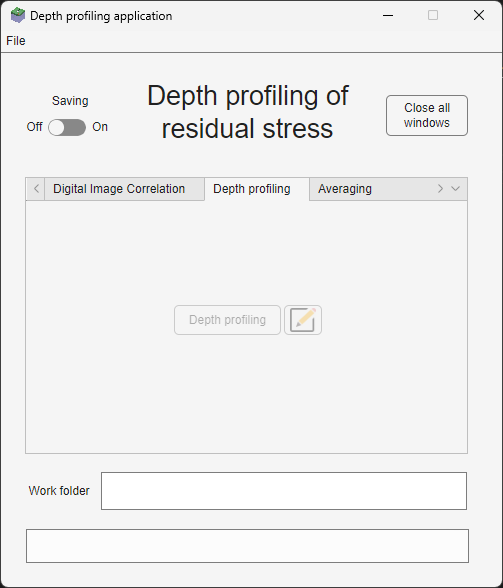
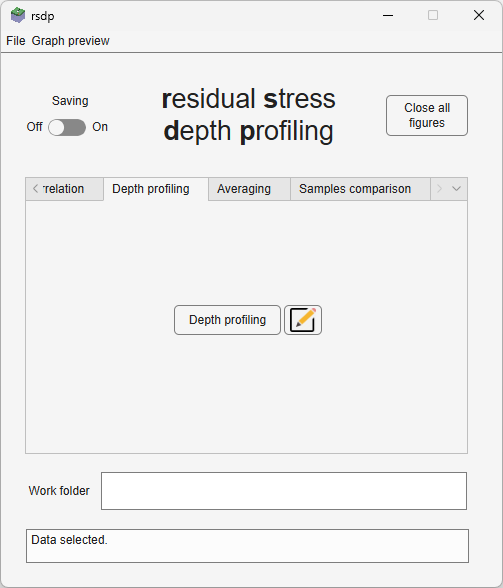
Minor change

diff --git a/README.md b/README.md
@@ -1,36 +1,29 @@
-# Depth profiling of residual stress 
+# `rsdp`
 
 ## Summary
-This is a MATLAB application intended to obtain the evolution of residual stress as a function of depth in the context of Focused Ion Beam (FIB) - Digital Image Correlation (DIC). The code is mostly built on the original DIC application developed by [Melanie Senn](https://mathworks.com/matlabcentral/fileexchange/50994-digital-image-correlation-and-tracking), as well as code developed by [Enrico Salvati](https://doi.org/10.1016/j.jmps.2019.01.007).
-
-This code was used and tested exclusively on ring-core milling geometry.
-
+`rsdp` is a `MATLAB` application intended to obtain multiple profiles of residual stress as a function of depth using ring-core Focused Ion Beam (FIB) - Digital Image Correlation (DIC). The code is mostly built on the original DIC application developed by [Melanie Senn](https://mathworks.com/matlabcentral/fileexchange/50994-digital-image-correlation-and-tracking), as well as code developed by [Enrico Salvati](https://doi.org/10.1016/j.jmps.2019.01.007).
 ## Installation
 ### System requirements
-This application was developed on Windows 10 and Windows 11. No other operating system was used for testing.
-
+This application was developed on Windows 10 and Windows 11.
 ### MATLAB requirements
-This application was developed in MATLAB R2024a through R2025b. Given the recent efforts put by MATLAB into app development, it seems that the application will be functional in the foreseeable future.
-
+This application was developed in MATLAB R2024a through R2026b.
 MATLAB toolbox dependencies:
 - Curve Fitting Toolbox
 - Optimization Toolbox
-
 ### Image processing
-Image processing prior to the DIC analysis is possible, which requires [Fiji](https://imagej.net/software/fiji/) to be installed, with [Miji](https://imagej.net/plugins/miji) in the *Scripts* subfolder (see the guidebook for more details).
-
+Image processing prior to the DIC analysis is possible, which requires [Fiji](https://imagej.net/software/fiji/) to be installed, with [Miji](https://imagej.net/plugins/miji) in the *scripts* subfolder (see the guidebook for more details).
 ### Installation Instructions
 You may either
-1. Directly download this repository
+1. Directly download this repository.
 2. Clone it using: git clone https://github.com/kentotak/rsdp.git.
+The installation file can be found at `/code/release/rsdp.mltbx`. Simply double-click the file or go to the *App* tab in `MATLAB` and click on *Install app*.
 
-The installation is `/code/rsdp.mltbx`. Simply double-click the file or go to the App tab in Matlab and click on *Install app*.
-
+**Note:** For some reason, the application appears in the *App* tab when it is installed for the first time (in version R2026b), but disappears when `MATLAB` is closed and opened again.
 ## Usage
-See the guidebook.
+To start the application, type `rsdp` in the command window.
 
+See [[documentation/Guidebook.md]] for more instructions on how to use `rsdp`.
 ## Contributing
-Pull requests are welcome, as long as I am working on this topic. For major changes, please open an issue first to discuss what you would like to change.
-
+Pull requests are welcome, as long as I am working on this topic. For major changes, please open an issue first.
 ## License
 [GNU](https://choosealicense.com/licenses/gpl-3.0/)
